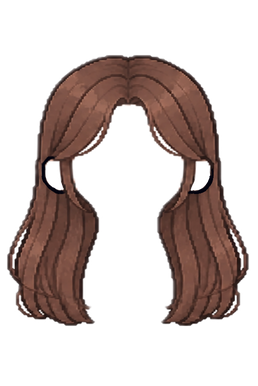
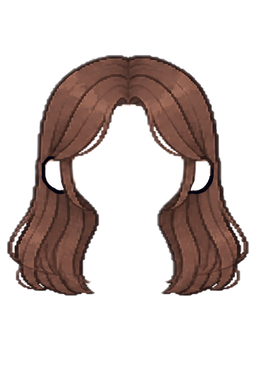
긴 머리 4개(긴 생머리·앞머리 웨이브·양 갈래 웨이브·양 갈래 땋은 머리)를 턱 아래만 25% 짧게
Claude-Session: https://claude.ai/code/session_015VxnKS3baGbwJXJNNp74ix

Changed region(s): [[0.0, 0.5285, 0.4031, 0.8705], [0.5891, 0.5285, 0.9922, 0.8705], [0.5891, 0.5285, 0.6512, 0.5596]]

diff --git a/avatar.js b/avatar.js
@@ -37,7 +37,7 @@ const AV_REQ = { pet: "pet-0", shoes: "shoes-1", eye: "eye-0", mouth: "mouth-0",
 const AV_ACC = []; // 장신구 칸 (아직 없음)
 const AV_TABS = [["eye", "눈"], ["mouth", "입"], ["cheek", "볼터치"], ["hair", "헤어"], ["top", "상의"], ["bottom", "하의"], ["full", "한벌"], ["shoes", "신발"], ["pet", "펫"]];
 const AV_FULL = new Set(["top-50","top-51","top-52","top-45","top-47","top-48","top-49","top-17","top-18","top-19","top-20","top-21","top-22","top-23","top-24","top-25","top-26","top-27","top-28","top-29","top-30","top-31","top-32"]); // 위아래 한 벌 옷: 입으면 하의를 안 그림. 가게에서는 '한벌' 칸
-const AV_V = "?v=34"; // 그림을 고치면 숫자를 올림 (브라우저에 남은 옛 그림 대신 새로 받게)
+const AV_V = "?v=35"; // 그림을 고치면 숫자를 올림 (브라우저에 남은 옛 그림 대신 새로 받게)
 const AV_HAT = new Set(["hair-12", "hair-13"]); // 모자·헬멧 (헤어 칸): 머리색을 안 칠함, 귀도 안 올림
 const AV_HIDE = new Set(["shoes-0"]); // 가게에 안 보이는 것 (맨발: 그림 없음)
 const avInTab = (it, k) => !AV_HIDE.has(it.id) && (k === "acc" ? AV_ACC.includes(it.slot) : k === "full" ? AV_FULL.has(it.id) : k === "top" ? it.slot === "top" && !AV_FULL.has(it.id) : it.slot === k); // 가게 칸에 보일 물건

diff --git a/index.html b/index.html
@@ -1668,7 +1668,7 @@
     <button class="danger" onclick="resetEverything()">모든 데이터 초기화</button>
   </section>
 </div>
-<script src="avatar.js?v=34"></script><!-- 아바타를 고치면 avatar.js의 AV_V와 같이 숫자를 올림 -->
+<script src="avatar.js?v=35"></script><!-- 아바타를 고치면 avatar.js의 AV_V와 같이 숫자를 올림 -->
 <script>
 setTimeout(() => document.body.classList.add("ready"), 2000); // 혹시 아래에서 오류가 나도 2초 뒤엔 카드를 보여 줌
 // 다른 창(듀얼 모니터)으로 뗀 카드: { 카드: { w: 창, c: 카드, mark: 보드에 돌아올 자리, np: 글자 도구 창 } }

diff --git a/student.html b/student.html
@@ -159,7 +159,7 @@
     </div>
   </div>
 </div>
-<script src="avatar.js?v=34"></script><!-- 아바타를 고치면 avatar.js의 AV_V와 같이 숫자를 올림 -->
+<script src="avatar.js?v=35"></script><!-- 아바타를 고치면 avatar.js의 AV_V와 같이 숫자를 올림 -->
 <script type="module">
 // 서버: classes/{반 코드} = { unit, prices } · classes/{반 코드}/kids/{번호}-{비밀번호} = { n, pt, av, wear, own, buys, kidAt } (이름 없음)
 // 점수는 선생님 보드만 바꿈. 가게 물건은 입어 보기만 하다가 저장할 때 삼(buys에 남김). 선생님 보드가 받아서 점수를 뺌

diff --git a/av/hairuser.py b/av/hairuser.py
@@ -81,3 +81,10 @@ for f in glob.glob('raw_user/eye-*-2x.png') + glob.glob('raw_user/mouth-*-2x.png
   a[..., 3] *= np.clip((255 - a[..., :3].min(-1)) / 40, 0, 1)  # 옅은 흰 번짐은 흰 만큼 투명하게
   a[out, 3] = 0
   Image.fromarray(a.round().clip(0, 255).astype(np.uint8)).resize((258, 386), Image.LANCZOS).save(f'{n}.png', optimize=True)
+# 긴 머리 길이 줄이기: 턱(y=205) 아래만 세로 75%로 (얼굴·귀 구멍은 그대로). 회색본도 같이
+SHORT = [14, 15, 17, 18]  # 양 갈래 땋은 머리·양 갈래 웨이브·긴 생머리·앞머리 웨이브
+for k in SHORT:
+  for suf in ('', '-g'):
+    h = Image.open(f'hair-{k}{suf}.png').convert('RGBA'); top = h.crop((0, 0, 258, 205)); bot = h.crop((0, 205, 258, 386)); bb = bot.getbbox()
+    if not bb: continue
+    bot = bot.crop((0, 0, 258, bb[3])).resize((258, int(bb[3] * .75)), Image.LANCZOS); o = Image.new('RGBA', (258, 386)); o.paste(top, (0, 0)); o.alpha_composite(bot, (0, 205)); o.save(f'hair-{k}{suf}.png', optimize=True)
